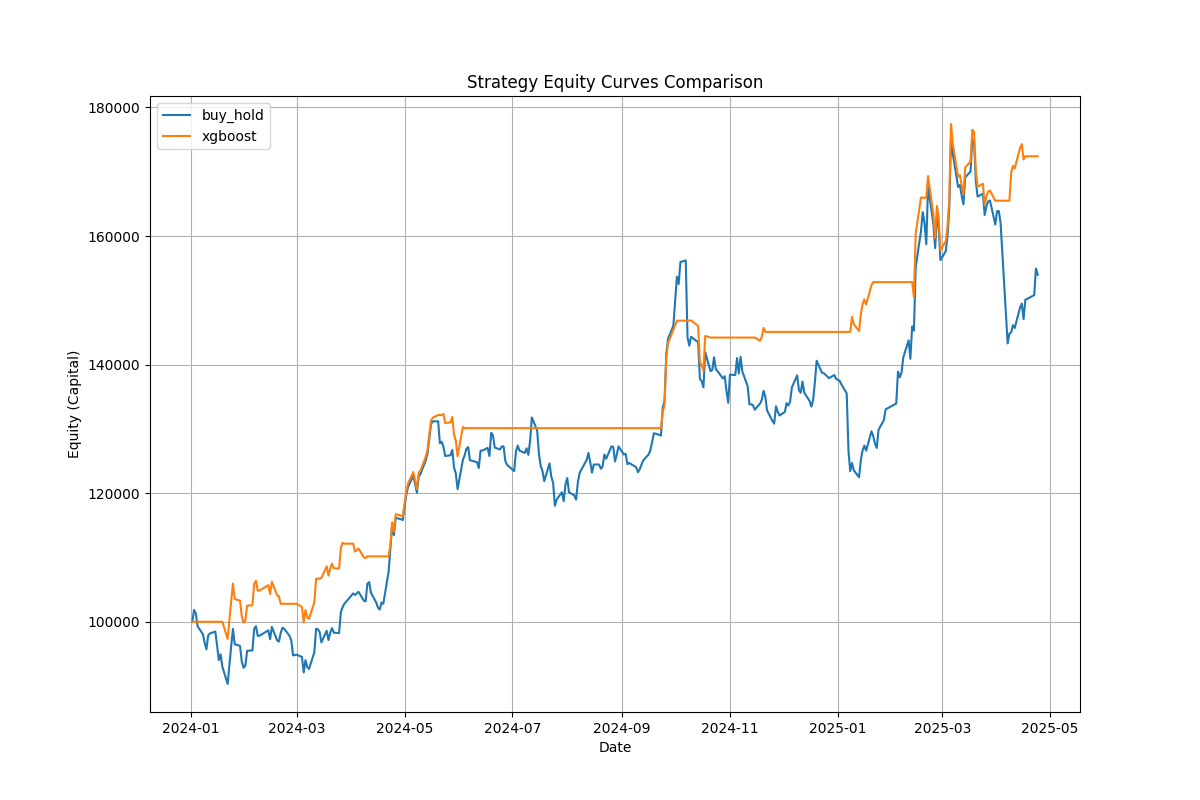
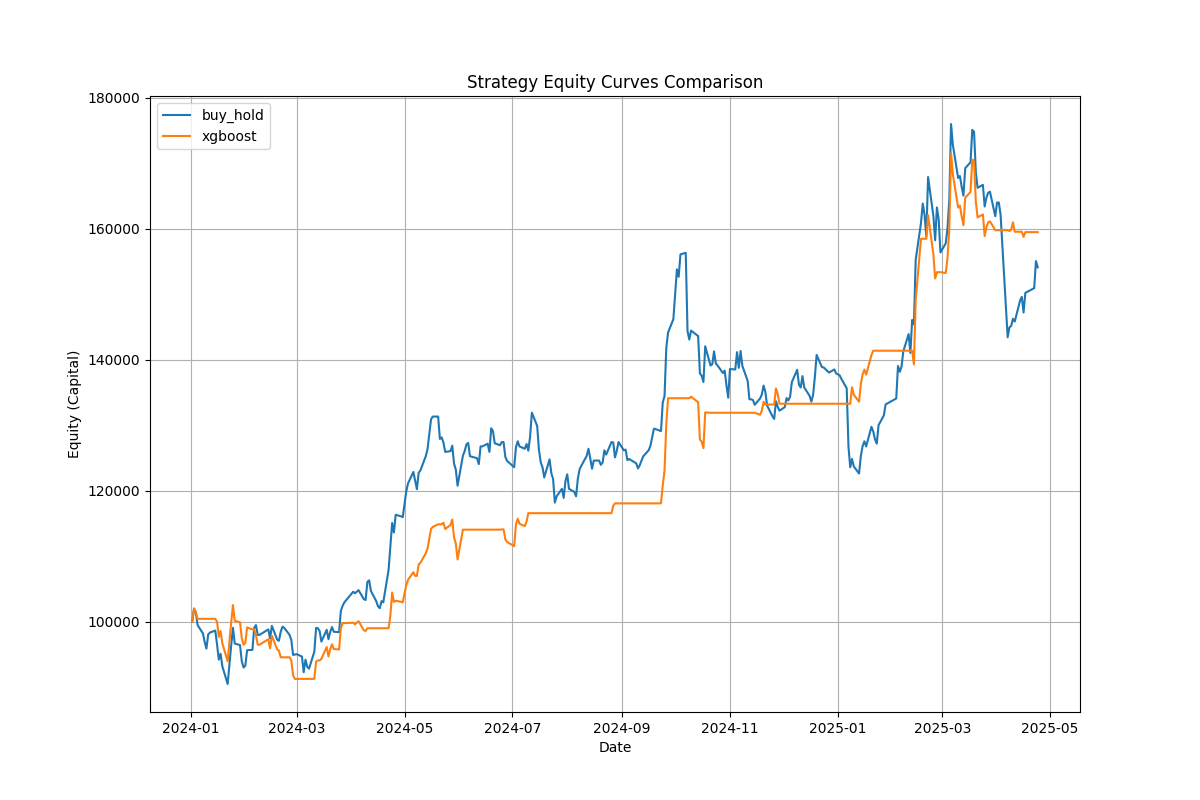
XGBOOST新增了多个种子计算出结果后取平均的算法，结果更精准

diff --git a/backtrader/backtest_with_backtrader.py b/backtrader/backtest_with_backtrader.py
@@ -6,6 +6,9 @@ import pandas as pd
 import numpy as np
 import math
 import backtrader as bt
+import json
+import datetime
+import os
 
 # Import Strategy Base and Concrete Strategies
 
@@ -142,6 +145,7 @@ def run_backtest(
     apply_fees: bool = False,
     capital: float = 100000.0,
     max_position: float = 1.0,
+    strat_obj: Optional[Strategy] = None,
 ) -> Dict:
     
     # 将信号合并到 DataFrame
@@ -211,12 +215,79 @@ def run_backtest(
     # 获取每日收益率序列
     timereturn_analyzer = strat_result.analyzers.timereturn.get_analysis()
     returns_series = pd.Series(timereturn_analyzer)
+    # 记录 XGBoost 实验结果
+    if strategy_name == 'xgboost' and strat_obj is not None:
+        log_xgboost_experiment(strat_obj, metrics)
 
     return {
         'strategy': strategy_name,
         **metrics,
         'returns_series': returns_series
     }
+
+def log_xgboost_experiment(strat_obj, metrics):
+    """
+    记录 XGBoost 实验参数和结果到 JSON 文件
+    """
+    log_file = 'xgboost_experiments.json'
+    
+    # 获取模型参数
+    # 假设 strat_obj.models 是一个列表，我们取第一个模型的参数作为代表
+    # 或者记录所有模型的参数配置（如果它们是一样的）
+    params = {}
+    if hasattr(strat_obj, 'models') and strat_obj.models:
+        # 获取第一个模型的参数
+        first_model = strat_obj.models[0]
+        # XGBClassifier 的参数可以通过 get_params() 获取
+        try:
+            params = first_model.get_params()
+            # 移除一些不必要的或者太长的参数
+            keys_to_remove = [
+                'n_jobs', 'missing', 'monotone_constraints', 'interaction_constraints', 'enable_categorical',
+                'base_score', 'booster', 'callbacks', 'colsample_bylevel', 'colsample_bynode', 'device',
+                'early_stopping_rounds', 'feature_types', 'feature_weights', 'gamma', 'grow_policy',
+                'importance_type', 'max_bin', 'max_cat_threshold', 'max_cat_to_onehot', 'max_delta_step',
+                'max_leaves', 'min_child_weight', 'multi_strategy', 'num_parallel_tree', 'reg_alpha',
+                'reg_lambda', 'sampling_method', 'scale_pos_weight', 'tree_method', 'validate_parameters',
+                'verbosity'
+            ]
+            for k in keys_to_remove:
+                if k in params:
+                    del params[k]
+            
+            # 记录集成模型的数量
+            params['n_ensemble_models'] = len(strat_obj.models)
+            
+        except Exception as e:
+            print(f"获取 XGBoost 参数失败: {e}")
+            params = {"error": str(e)}
+    
+    # 构建日志条目
+    entry = {
+        'timestamp': datetime.datetime.now().strftime('%Y-%m-%d %H:%M:%S'),
+        'parameters': params,
+        'metrics': metrics
+    }
+    
+    # 读取现有日志
+    logs = []
+    if os.path.exists(log_file):
+        try:
+            with open(log_file, 'r', encoding='utf-8') as f:
+                logs = json.load(f)
+        except json.JSONDecodeError:
+            pass # 文件可能损坏或为空
+            
+    # 添加新条目
+    logs.append(entry)
+    
+    # 写入文件
+    try:
+        with open(log_file, 'w', encoding='utf-8') as f:
+            json.dump(logs, f, indent=4, ensure_ascii=False)
+        print(f"XGBoost 实验记录已保存至 {log_file}")
+    except Exception as e:
+        print(f"保存实验记录失败: {e}")
 
 # ============================= CLI Runner =============================
 def parse_args():
@@ -261,15 +332,16 @@ def main():
         # 生成信号
         positions = strat_obj.generate_positions(df)
         
-        print(f"正在回测策略: {name} ...")
         res = run_backtest(
             df,
             positions,
             name,
             apply_fees=args.apply_fees,
             capital=args.capital,
-            max_position=args.max_position
+            max_position=args.max_position,
+            strat_obj=strat_obj
         )
+        
         
         # 提取收益率序列用于绘图，并从结果中移除以免影响汇总表
         if 'returns_series' in res:

diff --git a/backtrader/xgboost_strategy.py b/backtrader/xgboost_strategy.py
@@ -10,7 +10,7 @@ class XGBoostStrategy(Strategy):
     name = "xgboost"
 
     def __init__(self):
-        self.model = None
+        self.models = [] # Changed from self.model to self.models list
         self.features = [
             'open', 'high', 'low', 'close', 'volume',
             'ma5', 'ma10', 'ma20',
@@ -56,17 +56,27 @@ class XGBoostStrategy(Strategy):
         y_train = train_data['target']
 
         print(f"[{self.name}] Training XGBoost model on {len(X_train)} samples...")
-        self.model = xgb.XGBClassifier(
-            n_estimators=200,
-            learning_rate=0.01,
-            max_depth=5,
-            subsample=0.8,
-            colsample_bytree=0.8,
-            random_state=3,
-            eval_metric='logloss'
-        )
-        self.model.fit(X_train, y_train)
-        print(f"[{self.name}] Training complete.")
+        
+        # 为了评估模型的平均表现，我们训练多个不同随机种子的模型并取平均预测
+        n_models = 50
+        self.models = []
+        
+        for i in range(n_models):
+            seed = 42 + i
+            model = xgb.XGBClassifier(
+                n_estimators=200,
+                learning_rate=0.02,
+                max_depth=5,
+                subsample=0.8,
+                colsample_bytree=0.8,
+                random_state=seed,
+                eval_metric='logloss',
+                n_jobs=-1
+            )
+            model.fit(X_train, y_train)
+            self.models.append(model)
+            
+        print(f"[{self.name}] Training complete. Ensemble of {n_models} models created.")
 
     def _engineer_features(self, df: pd.DataFrame) -> pd.DataFrame:
         # Base features must exist
@@ -97,7 +107,7 @@ class XGBoostStrategy(Strategy):
         return df
 
     def generate_positions(self, df: pd.DataFrame) -> pd.Series:
-        if self.model is None:
+        if not hasattr(self, 'models') or not self.models:
             return pd.Series(0, index=df.index)
 
         # We need context for lag features. 
@@ -114,9 +124,12 @@ class XGBoostStrategy(Strategy):
             valid_indices = df.index.intersection(full_feat.index)
             X_test = full_feat.loc[valid_indices, self.feature_names]
             
-            # Predict
-            # predict_proba returns [prob_0, prob_1]
-            probs = self.model.predict_proba(X_test)[:, 1]
+            # Predict using Ensemble
+            # Average the probabilities from all models
+            avg_probs = np.zeros(len(X_test))
+            for model in self.models:
+                avg_probs += model.predict_proba(X_test)[:, 1]
+            avg_probs /= len(self.models)
             
             # 改进策略：引入滞后阈值 (Hysteresis) 防止过早止盈
             # 逻辑：
@@ -127,7 +140,7 @@ class XGBoostStrategy(Strategy):
             signals = []
             current_pos = 0 # 初始假设空仓
             
-            for p in probs:
+            for p in avg_probs:
                 if p > 0.55:
                     current_pos = 1
                 elif p < 0.45:
